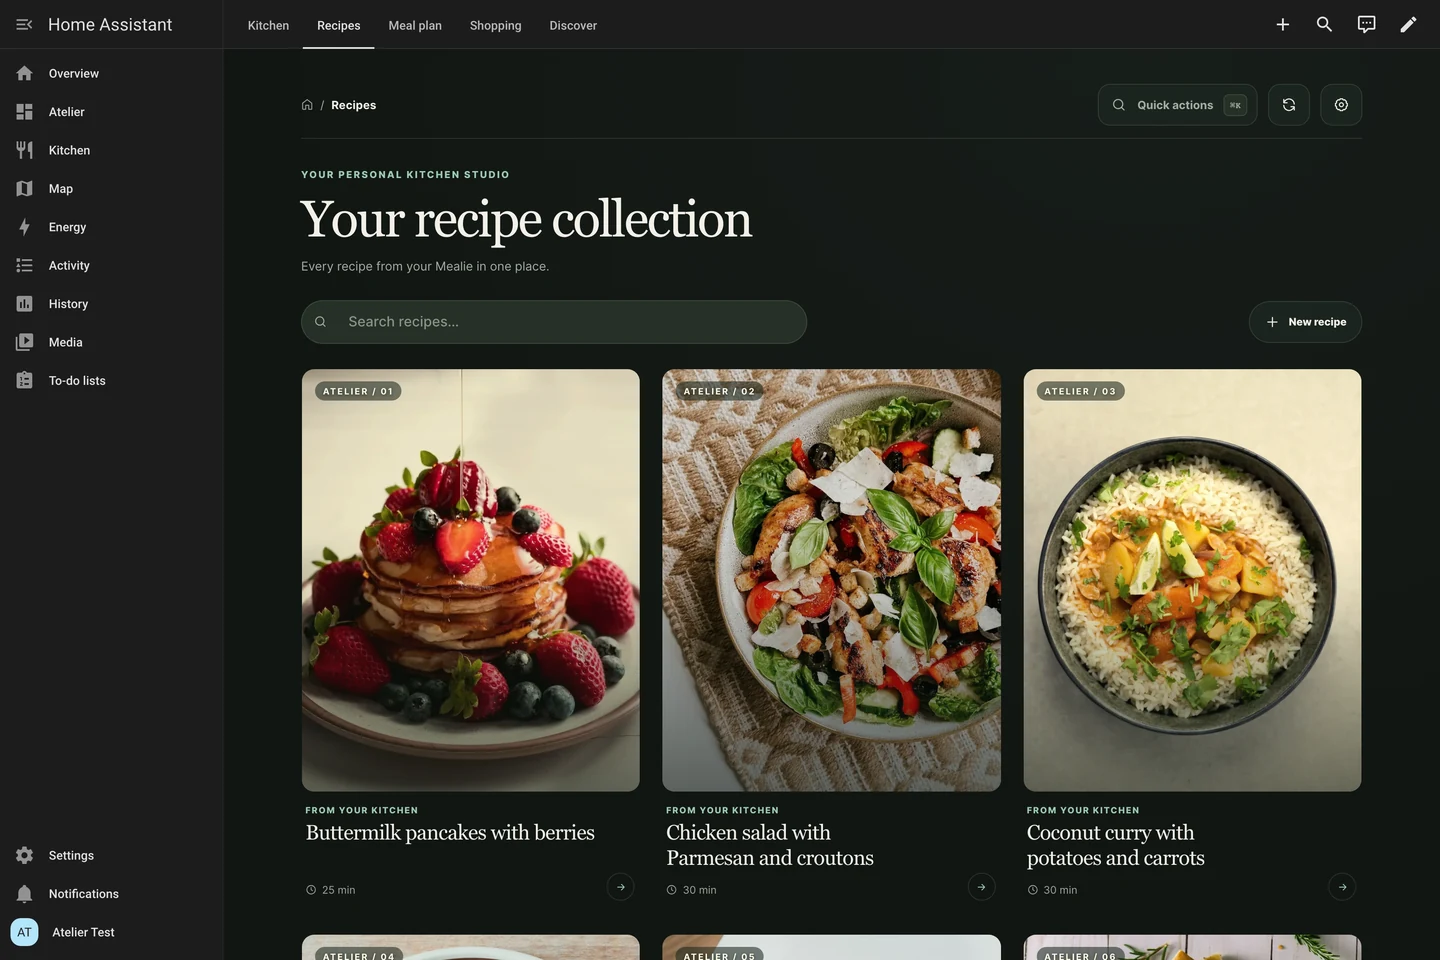
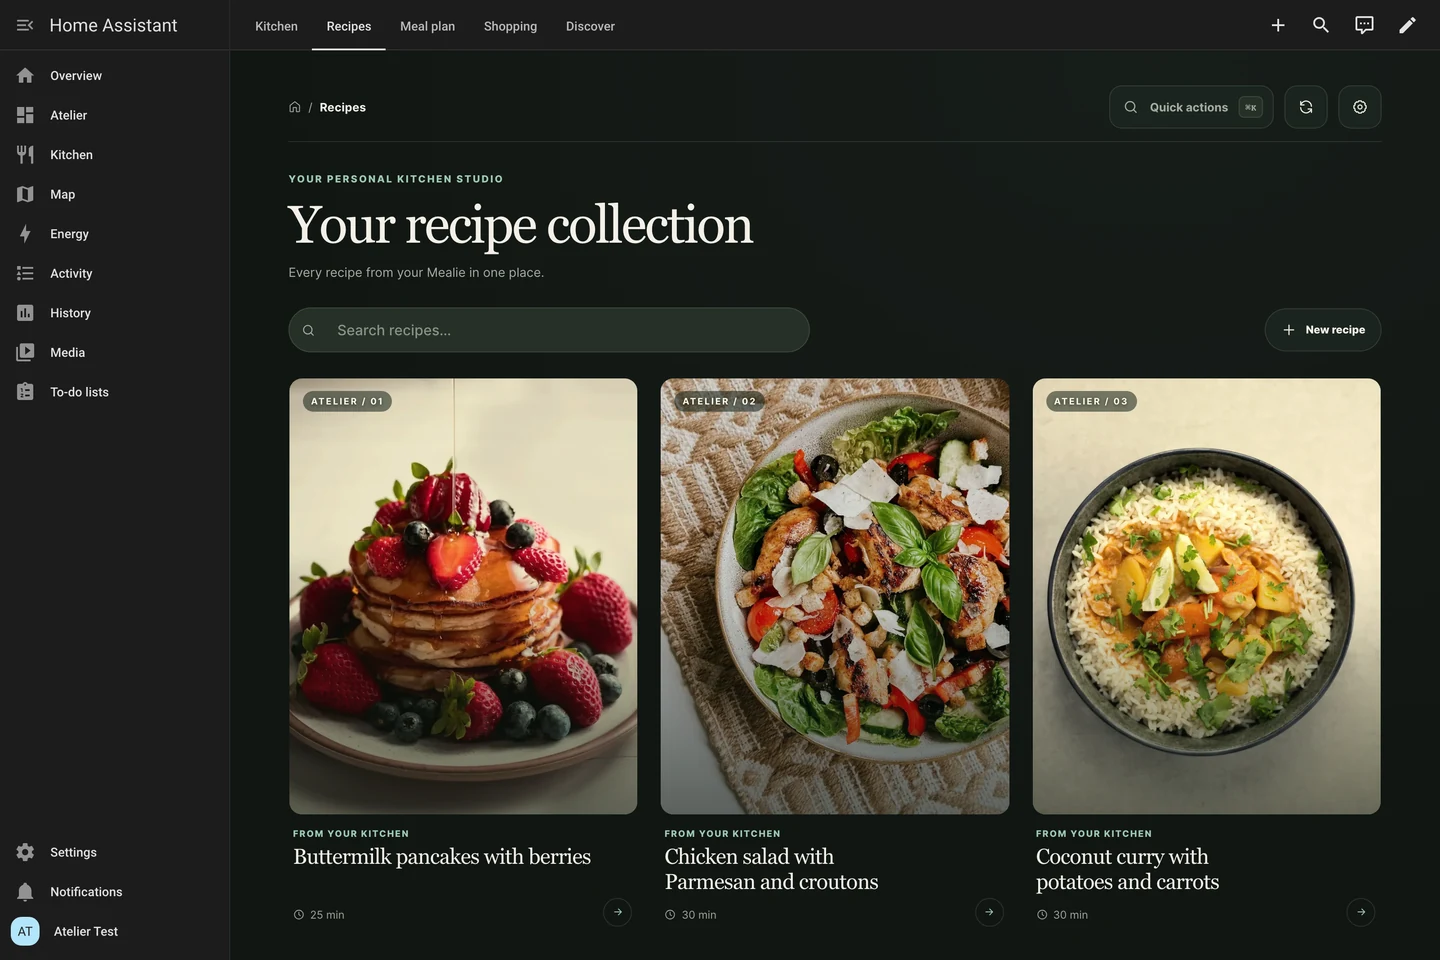
Recapture clipped README shots: recipe from its top, cooking step visible, phones and recipes cut at row gaps

diff --git a/scripts/capture-readme-shots.py b/scripts/capture-readme-shots.py
@@ -165,36 +165,54 @@ def start_cooking(page) -> None:
 
 # Count the elements of the recipe dialog that a scroll position cuts through or crowds against the header strip
 # (the sticky close button draws a strip 13 px below itself) or the bottom edge.
-CUTS = """(modal) => {
+CUTS = """(modal, withBar) => {
   const box = modal.getBoundingClientRect();
   const bar = modal.querySelector(':scope > .modal-close');
-  const edges = [[box.bottom - 6, 0]];
-  if (bar) edges.push([bar.getBoundingClientRect().bottom + 13, 7]);
+  const edges = [[box.bottom - 14, 0]];
+  if (bar && withBar) edges.push([bar.getBoundingClientRect().bottom + 13, 7]);
+  // The cooking dialog's sticky step bar covers what scrolls under it: its top edge must not cut anything either.
+  const actions = modal.querySelector('.cook-actions');
+  if (actions) edges.push([actions.getBoundingClientRect().top - 14, 14]);
   let cuts = 0;
-  for (const el of modal.querySelectorAll('*')) {
-    if (el === bar || bar?.contains(el) || el.closest('.modal-hero') || el.matches('.modal-hero')) continue;
+  const all = [];
+  const collect = (root) => { for (const el of root.querySelectorAll('*')) { all.push(el); if (el.shadowRoot) collect(el.shadowRoot); } };
+  collect(modal);
+  for (const el of all) {
+    if (el === bar || bar?.contains(el) || el.closest('.cook-actions') || el.closest('.modal-hero') || el.matches('.modal-hero')) continue;
     const r = el.getBoundingClientRect();
     if (r.height < 4 || r.height > 130 || r.width < 4) continue;
+    // A group heading just above the edge would stand alone, its card cut off below it.
+    if (/^H[1-6]$/.test(el.tagName) || el.matches('.step-group, .group-title') ) { if (r.bottom > box.bottom - 70 && r.top < box.bottom) cuts += 1; continue; }
     if (edges.some(([line, gap]) => r.top < line + gap && r.bottom > line)) cuts += 1;
   }
   return cuts;
 }"""
 
 
-def scroll_recipe(page) -> None:
-    """Scroll the recipe dialog to the first position where no text or box is cut by an edge.
+def fit_recipe_top(page) -> None:
+    """Show the recipe dialog from its top (photo, name, actions), ending on a gap between two rows.
 
-    The actions, the first ingredients and the first step stay visible; the hero photo is scrolled out.
+    The dialog's own height is trimmed (it stays centred) until no text or box is cut by its bottom edge.
     """
     modal = page.locator(".modal >> visible=true").first
-    for top in range(int(os.environ.get("S0", 215)), 400):
-        modal.evaluate(f"m => {{ m.scrollTop = {top}; }}")
-        page.wait_for_timeout(60)
-        if modal.evaluate(CUTS) == 0:
-            break
+    # A taller viewport (same aspect) lets the dialog reach past the two-column rows where a clean edge exists.
+    grow = float(os.environ.get("GROW", 1.42))
+    page.set_viewport_size({"width": round(DESKTOP["width"] * grow), "height": round(DESKTOP["height"] * grow)})
+    page.wait_for_timeout(500)
+    full = int(modal.evaluate("m => m.getBoundingClientRect().height"))
+    # The hero photo may scroll up by a little, as long as it keeps filling the header strip with the close button.
+    for top in range(0, 1):
+        for height in range(full + 500, full - 40, -3):
+            modal.evaluate(f"m => {{ m.style.transition = 'none'; m.style.maxHeight = '{height}px'; m.scrollTop = {top}; }}")
+            page.wait_for_timeout(60)
+            if modal.evaluate(CUTS, False) == 0:
+                print("dialog height", height, "of", full, "scroll", top)
+                break
+        else:
+            continue
+        break
     else:
-        raise SystemExit("no clean scroll position for the recipe dialog")
-    print("scroll", top)
+        raise SystemExit("no dialog height and scroll with a clean bottom edge")
     page.mouse.move(2, 2)
     page.wait_for_timeout(600)
 
@@ -222,10 +240,77 @@ def fit_nav(page) -> None:
     page.wait_for_timeout(300)
 
 
-def scroll_to_end(page) -> None:
-    """Scroll the cooking dialog to its end so the sticky step bar covers nothing."""
-    page.locator(".modal >> visible=true").first.evaluate("m => { m.scrollTop = m.scrollHeight; }")
-    page.wait_for_timeout(600)
+# Count the boxes, texts and buttons of a page (shadow roots included) that the bottom edge of the viewport cuts
+# through or that end within 14 px of it (those look sliced too).
+PAGE_CUTS = """() => {
+  const line = innerHeight;
+  let cuts = 0;
+  const walk = (root) => {
+    for (const el of root.querySelectorAll('*')) {
+      if (el.shadowRoot) walk(el.shadowRoot);
+      if (/^(IMG|SVG|PATH|PICTURE|VIDEO|CANVAS)$/i.test(el.tagName)) continue;
+      const r = el.getBoundingClientRect();
+      if (r.height > 130 && r.top > line - 40 && r.top < line && r.width > 100) cuts += 1; // a sliver of a card
+      if (r.height < 4 || r.height > 130 || r.width < 4 || r.top >= line) continue;
+      if (getComputedStyle(el).visibility === 'hidden') continue;
+      const text = el.children.length === 0 && el.textContent.trim();
+      const solid = el.tagName === 'BUTTON' || el.tagName === 'INPUT' || /^H[1-6]$/.test(el.tagName) || text;
+      if (r.bottom > line || (solid && r.bottom > line - 14)) cuts += 1;
+    }
+  };
+  walk(document);
+  return cuts;
+}"""
+
+
+def fit_phone_viewport(page, check, keep_width: bool = False) -> None:
+    """Change the phone viewport height until nothing is cut at the bottom edge.
+
+    By default the width follows (same aspect, only shorter: a viewport wider than 425 px switches the card to its
+    tablet layout). With keep_width the width stays and the height moves both ways by at most 30 px, so the tile
+    is stretched by at most 3 percent when it is downscaled to 390 x 844.
+    """
+    if keep_width:
+        offsets = [0] + [sign * step for step in range(2, 31, 2) for sign in (1, -1)]
+    else:
+        offsets = list(range(0, -200, -2))
+    for offset in offsets:
+        height = PHONE["height"] + offset
+        width = PHONE["width"] if keep_width else round(height * PHONE["width"] / PHONE["height"])
+        page.set_viewport_size({"width": width, "height": height})
+        page.wait_for_timeout(180)
+        if check() == 0:
+            print("phone viewport height", height)
+            return
+    raise SystemExit("no phone viewport height with a clean bottom edge")
+
+
+def fit_desktop_viewport(page, check) -> None:
+    """Shorten the desktop viewport (the width follows, same aspect) until the bottom edge falls between two rows."""
+    for height in range(DESKTOP["height"], DESKTOP["height"] - 160, -2):
+        page.set_viewport_size({"width": round(height * DESKTOP["width"] / DESKTOP["height"]), "height": height})
+        page.wait_for_timeout(250)
+        if check() == 0:
+            print("desktop viewport height", height)
+            return
+    raise SystemExit("no desktop viewport height with a clean bottom edge")
+
+
+def fit_cook_dialog(page) -> None:
+    """Trim the cooking dialog (it stays centred) so its sticky step bar covers no tool or timer card.
+
+    The dialog stays at its top: photo, step title and text, servings and the swipe hint are visible.
+    """
+    modal = page.locator(".modal >> visible=true").first
+    full = int(modal.evaluate("m => m.getBoundingClientRect().height"))
+    for height in range(full, full - 400, -2):
+        modal.evaluate(f"m => {{ m.style.transition = 'none'; m.style.maxHeight = '{height}px'; m.scrollTop = 0; }}")
+        page.wait_for_timeout(80)
+        if modal.evaluate(CUTS, False) == 0:
+            print("cooking dialog height", height, "of", full)
+            page.wait_for_timeout(500)
+            return
+    raise SystemExit("no cooking dialog height without a cut card")
 
 
 def shot(page, tmp: Path) -> Path:
@@ -272,10 +357,15 @@ def main() -> None:
                     if step == "cook":
                         start_cooking(page)
                     else:
-                        scroll_recipe(page)
+                        fit_recipe_top(page)
                 else:
                     view(page, theme, mode)
+                    if name == "recipes-dark":
+                        fit_desktop_viewport(page, lambda: page.evaluate(PAGE_CUTS))
+                        page.mouse.move(2, 2)
+                        page.wait_for_timeout(500)
                 save(shot(page, tmp), name, (1440, 960))
+                page.set_viewport_size(DESKTOP)
             for ctx, _ in sessions.values():
                 ctx.close()
             browser.close()
@@ -288,13 +378,21 @@ def main() -> None:
                 set_sidebar(page, "always_hidden")
                 if step:
                     open_recipe(page, theme, PHONE_BOARD)
+                    modal = page.locator(".modal >> visible=true").first
                     if step == "cook":
                         start_cooking(page)
-                        scroll_to_end(page)
+                        fit_cook_dialog(page)
+                    else:
+                        modal.evaluate("m => { m.scrollTop = 0; }")
+                        fit_phone_viewport(page, lambda: modal.evaluate(CUTS, False))
                 else:
                     view(page, theme, mode, PHONE_BOARD)
+                    fit_phone_viewport(page, lambda: page.evaluate(PAGE_CUTS), keep_width=True)
+                    page.evaluate("window.scrollTo(0, 0)")
                     if mode == "dashboard":
                         fit_nav(page)
+                page.mouse.move(2, 2)
+                page.wait_for_timeout(500)
                 page.screenshot(path=str(tmp))
                 tiles.append(Image.open(tmp).convert("RGB").resize((390, 844), Image.LANCZOS))
                 ctx.close()
